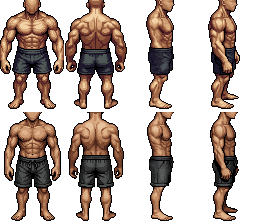
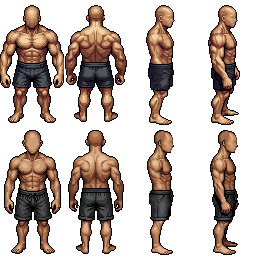
Hero puppets: full-height dressing sheets
Claude-Session: https://claude.ai/code/session_01AjBHTLqAVQSsdd35qEyjCk

diff --git a/tools/heroart/gear_sheet.py b/tools/heroart/gear_sheet.py
@@ -2,12 +2,12 @@
 # the side without its arm, and the side with it (256x224), plus the paint mask (everything but the face).
 import json, os, numpy as np
 from PIL import Image
-HERE = os.path.dirname(os.path.abspath(__file__)); S = 128; CW, CH = 64, 112
+HERE = os.path.dirname(os.path.abspath(__file__)); S = 128; CW, CH = 64, 128
 PAIRS = {'a': ['warrior', 'paladin'], 'b': ['mage', 'female']}; VIEWS = ['s', 'n', 'e', 'e_full']
 def origin(body, v):
     im = np.array(Image.open(f'{HERE}/src/{body}/{v}.png').convert('RGBA')); a = im[..., 3] > 0
     ys = np.nonzero(a.any(1))[0]; xs = np.nonzero(a.any(0))[0]; cx = (xs.min() + xs.max() + 1) // 2
-    return im, int(cx - CW // 2), int(ys.max() + 1 - (CH - 3))
+    return im, int(cx - CW // 2), 0
 def dil(m, n):
     for _ in range(n): m = m | np.roll(m, 1, 0) | np.roll(m, -1, 0) | np.roll(m, 1, 1) | np.roll(m, -1, 1)
     return m
